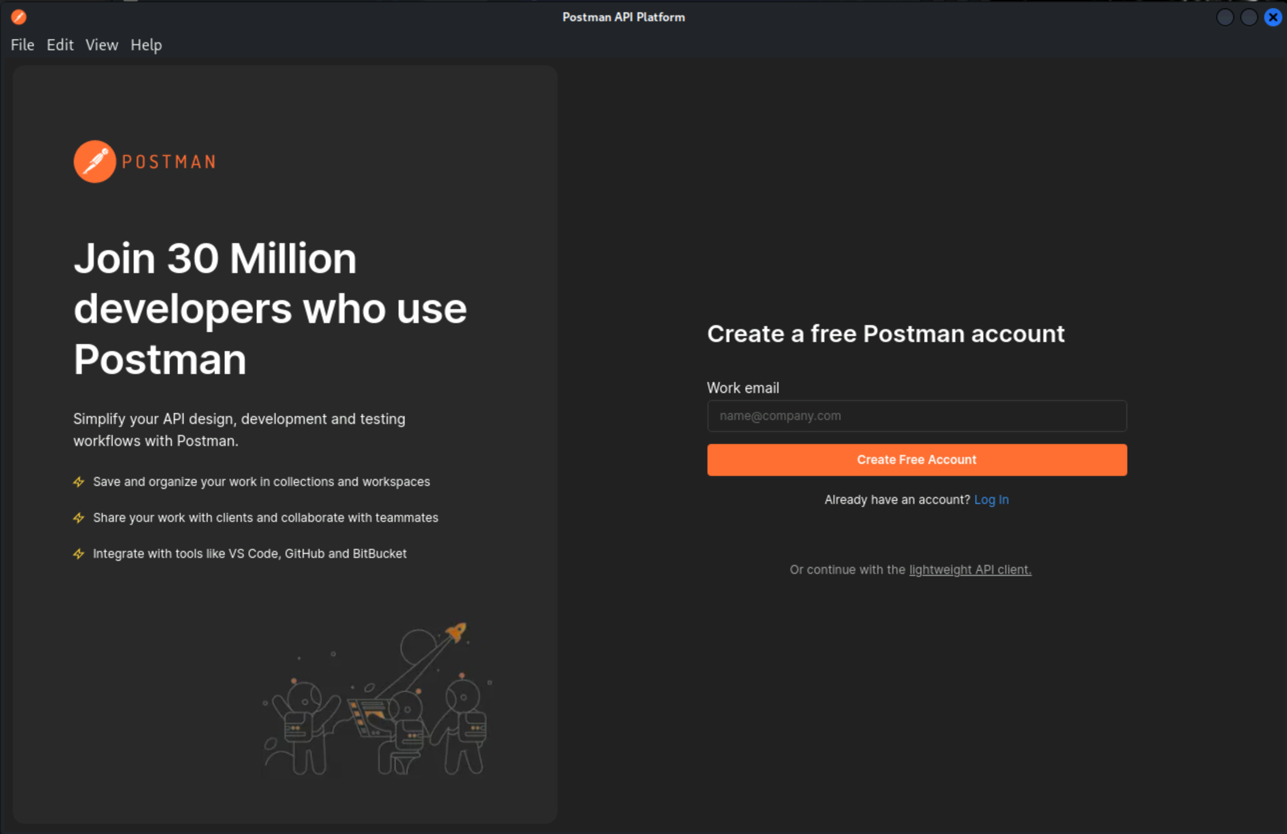
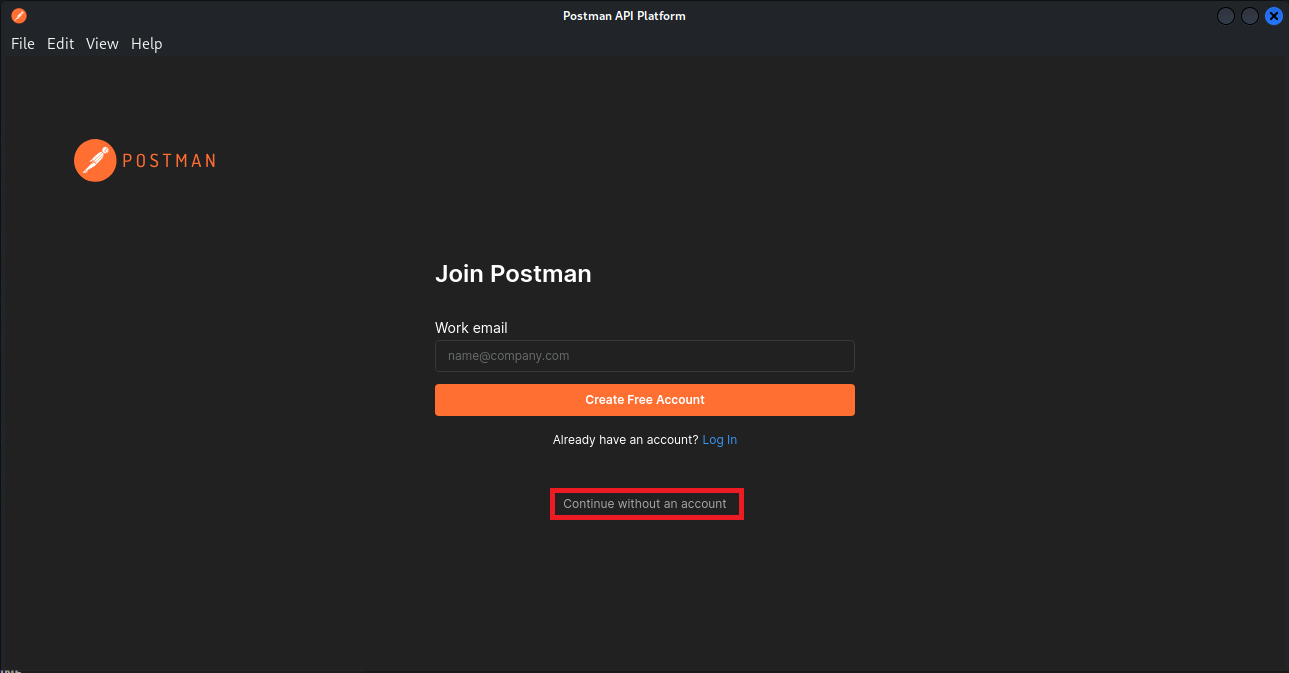
updating Postman instructions

diff --git a/content/02API/Task2.md b/content/02API/Task2.md
@@ -41,9 +41,11 @@ Postman
 If for some reason this doesn't come up, you can search for the Postman application by clicking on the Dragon icon at the top left side of the Kali Desktop.
 
 2. A new window will open which will look like this:
+    - Click on **Continue without an account**
 ![img.png](img.png)
 
-3. select `lightweight API client` below the Account creation form.
+3. A new window will appear:
+    - Click **Open Lightweight API Client**
 ![img_1.png](img_1.png)
 
 4. A empty Workspace will open.
@@ -57,7 +59,7 @@ If for some reason this doesn't come up, you can search for the Postman applicat
 
 ## Interact with REST API using HTTP Post
 HTTP POST is not another tool, it is a different communication method used by APIs to send data to the server. You can use e.g. **curl** or **Postman** to send a POST request to the API. In this task you are free to use the tool of your choice.
-1. Use **curl** or **Postman** to send a POST request to the API endpoint `http://localhost:8000/api/v1/calculate` and review the output. In the Body, add empty JSON object **{}** and select **JSON** in the dropdown.
+1. Use **curl** or **Postman** to send a POST request to the API endpoint `http://localhost:8000/api/v1/calculate` and review the output. In the Body,click on **raw** add empty JSON object **{}** and select **JSON** in the dropdown.
 ![img_5.png](img_5.png)
 If you use curl, a http header needs to be added to the request:
 ```bash
